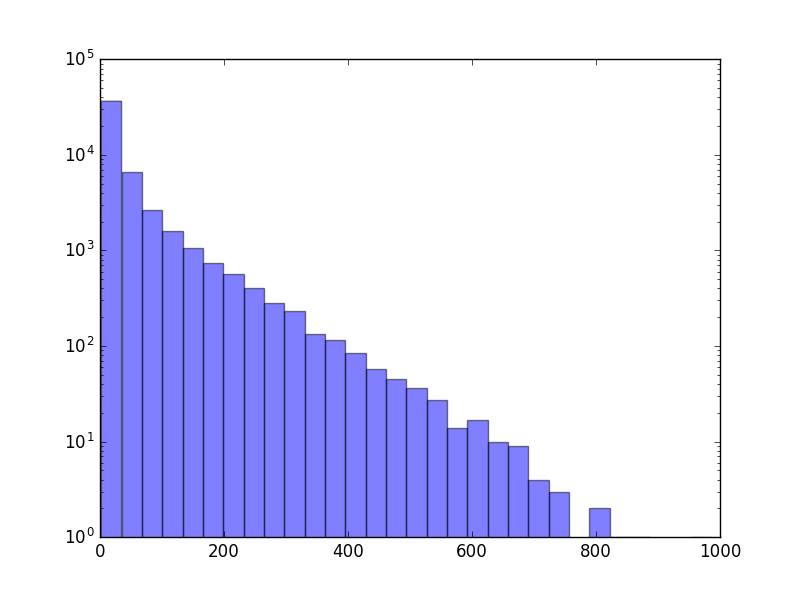
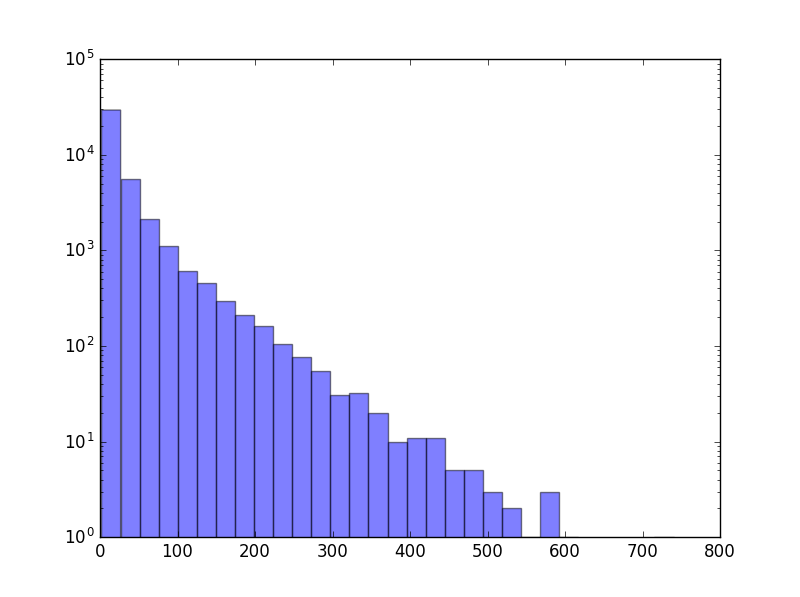
part 4 push

Changed region(s): [[0.125, 0.1508, 0.8438, 0.9347], [0.875, 0.9045, 0.9375, 0.9347]]

diff --git a/HW2/yarosevich_522_hw2.py b/HW2/yarosevich_522_hw2.py
@@ -3,7 +3,7 @@ import numpy as np
 import matplotlib.pyplot as plt
 import random as rd
 
-numsteps = 100000
+numsteps = 1000000
 dwell_list = []
 
 A = np.array([[.98, .1, 0], [.02, .7, .05], [0, .2, .95]])
@@ -35,26 +35,26 @@ for k in np.arange(0, numsteps - 1):
 #        states[k+1] = sort_list[states[k]][2]
 
 
-#reduced_states = states[:]
-#for i in range(0, len(reduced_states)):
-#    if reduced_states[i] == 1:
-#        reduced_states[i] = 0
-#for i in range(0, len(reduced_states)):
-#    if reduced_states[i] == 2:
-#        reduced_states[i] = 1
-#
-#last_dwell = 0
-#count = 1
-#for i in range(1, len(reduced_states)):
-#    if reduced_states[i] != reduced_states[i-1]:
-#        dwell_list.append(count)
-#        count = 1
-#    count = count +1
+reduced_states = states[:]
+for i in range(0, len(reduced_states)):
+    if reduced_states[i] == 1:
+        reduced_states[i] = 0
+for i in range(0, len(reduced_states)):
+    if reduced_states[i] == 2:
+        reduced_states[i] = 1
+
+last_dwell = 0
+count = 1
+for i in range(1, len(reduced_states)):
+    if reduced_states[i] != reduced_states[i-1]:
+        dwell_list.append(count)
+        count = 1
+    count = count +1
 print("Sim done")
 
 #%%
-unique, counts = np.unique(states, return_counts=True)
-dict(zip(unique, counts))
+#unique, counts = np.unique(states, return_counts=True)
+#dict(zip(unique, counts))
 
 
 #%%
